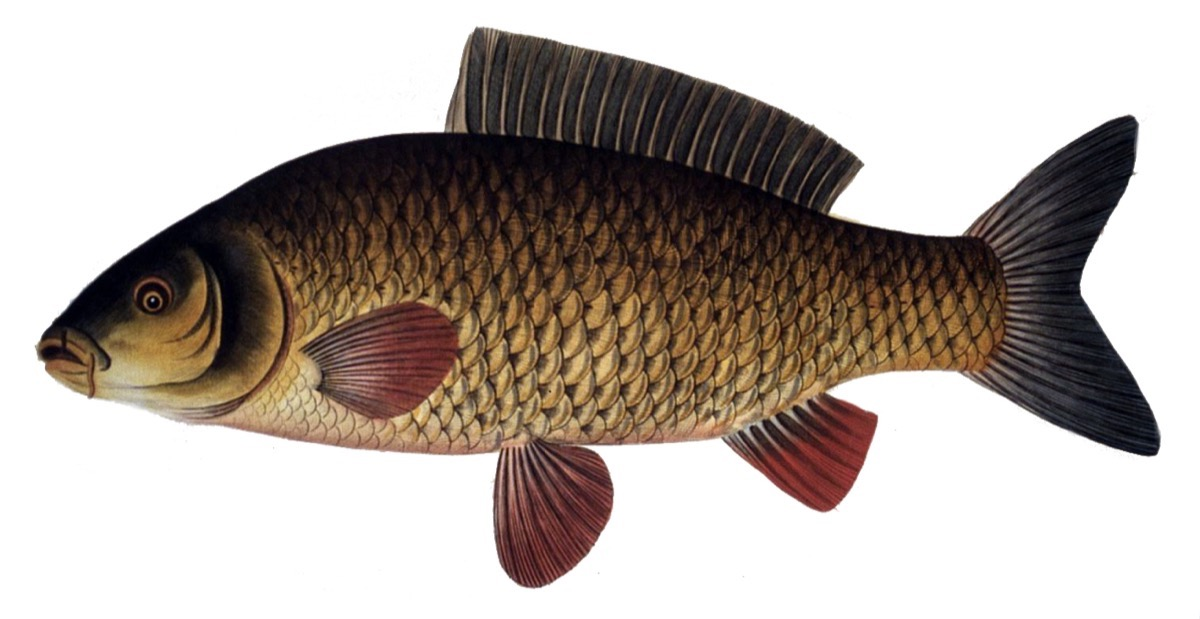
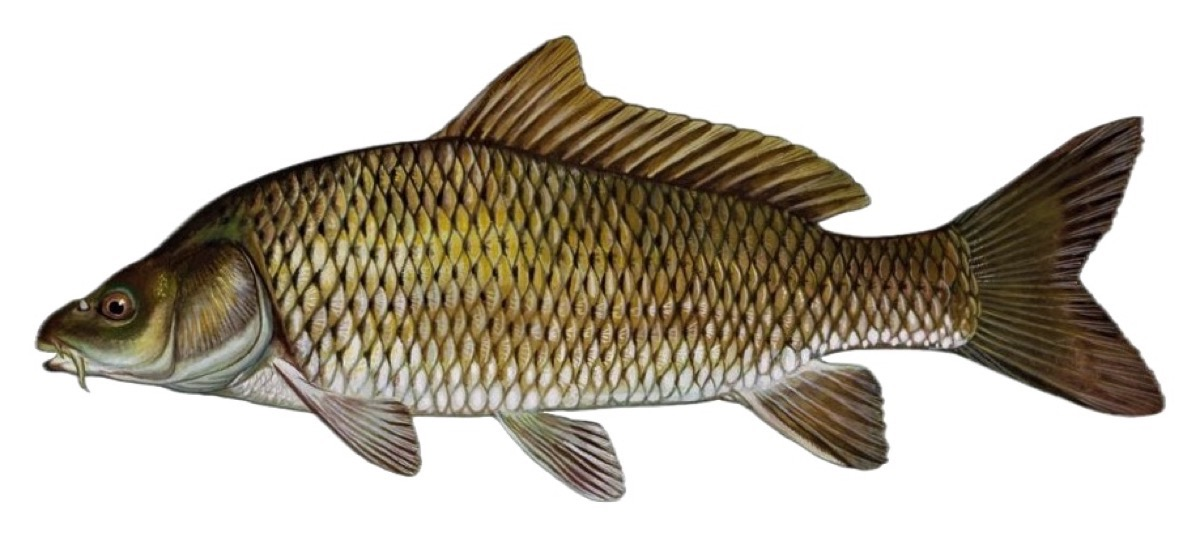
Bildprüfung gegen das Prüfungsposter: Wildkarpfen und Kamberkrebs ersetzt

diff --git a/data/group-raub-meer-krebse.js b/data/group-raub-meer-krebse.js
@@ -142,9 +142,9 @@ export const GROUP = [
     img: 'img/kamberkrebs.jpg',
     path: 'Krebs → Scheren → Panzer → Hinterleib',
     features: [
-      { text: 'Scherenspitzen orange mit dunklem Band (Scheren hier verdeckt)', src: 'WP, SN-Q 2001' },
-      { text: 'Kräftige Dornen seitlich vor der Nackenfurche (Wangenbereich)', x: 40.25, y: 56.9, src: 'WP' },
-      { text: 'Rostrote Querbinden auf dem Hinterleib', x: 68.3, y: 47.2, src: 'WP' },
+      { text: 'Scherenspitzen orange mit dunklem Band', x: 11.7, y: 65.5, src: 'WP, SN-Q 2001' },
+      { text: 'Kräftige Dornen seitlich vor der Nackenfurche (Wangenbereich)', x: 53, y: 28, src: 'WP' },
+      { text: 'Rostrote Querbinden auf dem Hinterleib', x: 88, y: 16, src: 'WP' },
     ],
     similar: [
       { name: 'Edelkrebs', diff: 'Scherenunterseite und Scherengelenk rot.' },

diff --git a/data/group-karpfen-boden.js b/data/group-karpfen-boden.js
@@ -93,8 +93,8 @@ export const GROUP = [
     img: 'img/wildkarpfen.jpg',
     path: 'keine Fettflosse → eine Rückenflosse → 2 Bartelpaare → lange Rückenflosse → Karpfen',
     features: [
-      { text: '4 Barteln: 2 lange und 2 kurze an der Oberlippe', x: 7.8, y: 62, src: 'B11, SN-Q' },
-      { text: 'Rückenflosse lang (15–20½ verzweigte Strahlen)', x: 54, y: 14.5, src: 'S25, B11' },
+      { text: '4 Barteln: 2 lange und 2 kurze an der Oberlippe', x: 6, y: 69, src: 'B11, SN-Q' },
+      { text: 'Rückenflosse lang (15–20½ verzweigte Strahlen)', x: 54, y: 27, src: 'S25, B11' },
       { text: '35–39 Schuppen in der Seitenlinie', src: 'B11' },
     ],
     similar: [

diff --git a/img/SOURCES-karpfen-boden.md b/img/SOURCES-karpfen-boden.md
@@ -9,7 +9,7 @@ Die Bilder stammen von Wikimedia Commons, anglerschmiede.de und weiteren Seiten.
 | Barbe | https://cdn.anglerschmiede.de/wp-content/uploads/Barbe.jpg | Anglerschmiede (anglerschmiede.de/lexikon) | nicht angegeben, auf Wunsch des Benutzers verwendet | Hintergrund entfernt |
 | Karausche | https://cdn.anglerschmiede.de/wp-content/uploads/Karausche.png | Anglerschmiede (anglerschmiede.de/lexikon) | nicht angegeben, auf Wunsch des Benutzers verwendet | Hintergrund entfernt |
 | Giebel | https://cdn.anglerschmiede.de/wp-content/uploads/Giebel.png | Anglerschmiede (anglerschmiede.de/lexikon) | nicht angegeben, auf Wunsch des Benutzers verwendet | Hintergrund entfernt |
-| Wildkarpfen | `1/1e/Cyprinus_carpio3.jpg` | laut Commons unbekannt (Bloch-Tafel laut Recherche) | gemeinfrei | gespiegelt |
+| Wildkarpfen | https://upload.wikimedia.org/wikipedia/commons/6/6b/Common_carp_%28white_background%29.jpg | U.S. Fish and Wildlife Service | gemeinfrei | ersetzt (vorher Bloch, zu hochrückig im Vergleich zum Prüfungsposter); Hintergrund entfernt, gespiegelt |
 | Schmerle | `d/d0/Barbatula_barbatula_k%C3%B6vi_cs%C3%ADk.jpg` | Zsoldos Márton | CC BY-SA 3.0 | – (Original nur 500 px breit, hochskaliert) |
 | Schlammpeitzger | `6/60/Misgurnus_fossilis1.jpg` | Krüger (Bloch) | gemeinfrei | gespiegelt |
 | Steinbeißer | https://cdn.anglerschmiede.de/wp-content/uploads/Steinbeisser.png | Anglerschmiede (anglerschmiede.de/lexikon) | nicht angegeben, auf Wunsch des Benutzers verwendet | Hintergrund entfernt |

diff --git a/img/SOURCES-raub-meer-krebse.md b/img/SOURCES-raub-meer-krebse.md
@@ -13,4 +13,4 @@ Dateien von Wikimedia Commons, anglerschmiede.de und weiteren Seiten. Bearbeitun
 | Flunder | https://cdn.anglerschmiede.de/wp-content/uploads/Flunder.png | Anglerschmiede (anglerschmiede.de/lexikon) | nicht angegeben, auf Wunsch des Benutzers verwendet | Hintergrund entfernt |
 | Kabeljau (Dorsch) | https://upload.wikimedia.org/wikipedia/commons/b/b7/Gadus_morhua1.jpg | Marcus Elieser Bloch / Krüger | gemeinfrei | gespiegelt |
 | Edelkrebs | https://cdn.anglerschmiede.de/wp-content/uploads/Edelkrebs.jpeg | Anglerschmiede (anglerschmiede.de/lexikon) | nicht angegeben, auf Wunsch des Benutzers verwendet | Hintergrund entfernt |
-| Amerikanischer Flusskrebs (Kamberkrebs) | https://upload.wikimedia.org/wikipedia/commons/9/94/Kamberkrebs_Faxonius_limosus_syn_Orconectes_limosus.jpg | Holger Krisp | CC BY 4.0 | Rand beschnitten |
+| Amerikanischer Flusskrebs (Kamberkrebs) | https://upload.wikimedia.org/wikipedia/commons/e/e3/Kamberkrebs_spiny-cheek_crayfish_Orconectes_limosus_male.jpg | Astacoides (Wikimedia Commons) | CC BY-SA 3.0 | ersetzt (vorher Foto auf Moos); Hintergrund entfernt |
